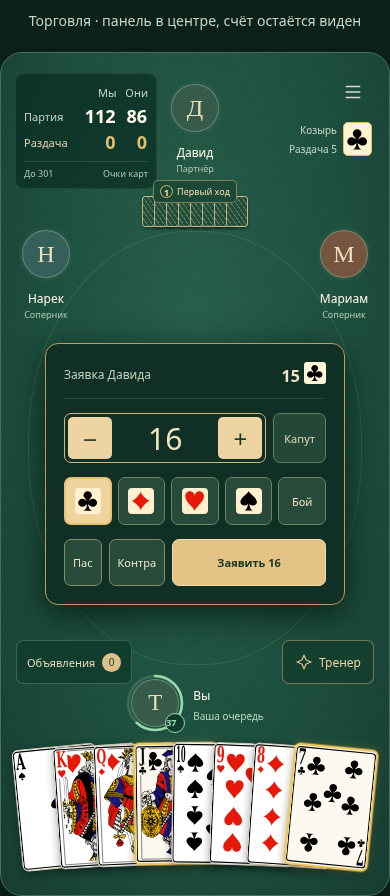
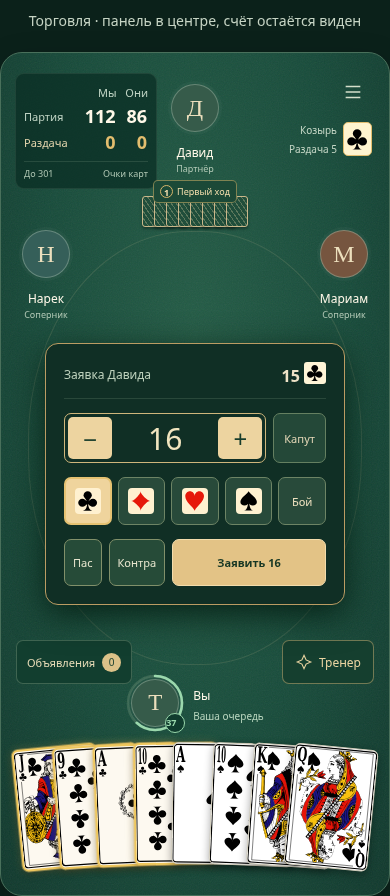
Publish isolated table and centered bidding design preview

Changed region(s): [[0.0308, 0.8125, 0.9846, 1.0]]

diff --git a/design-v3/app.js b/design-v3/app.js
@@ -1,11 +1,21 @@
 // Isolated visual prototype: no game rules, sockets, guest storage or production changes.
 const CARD_BASE = "../cards/";
 const glyphs = { CLUBS: "♣", DIAMONDS: "♦", HEARTS: "♥", SPADES: "♠" };
-const rankOrder = ["ACE", "KING", "QUEEN", "JACK", "TEN", "NINE", "EIGHT", "SEVEN"];
+const suitOrder = ["CLUBS", "DIAMONDS", "HEARTS", "SPADES"];
+const trumpRanks = ["JACK", "NINE", "ACE", "TEN", "KING", "QUEEN", "EIGHT", "SEVEN"];
+const plainRanks = ["ACE", "TEN", "KING", "QUEEN", "JACK", "NINE", "EIGHT", "SEVEN"];
 const hand = [
-  ["SPADES", "ACE"], ["HEARTS", "KING"], ["DIAMONDS", "QUEEN"], ["CLUBS", "JACK"],
-  ["SPADES", "TEN"], ["HEARTS", "NINE"], ["DIAMONDS", "EIGHT"], ["CLUBS", "SEVEN"],
-].sort((a, b) => rankOrder.indexOf(a[1]) - rankOrder.indexOf(b[1]));
+  ["SPADES", "QUEEN"], ["CLUBS", "ACE"], ["SPADES", "KING"], ["CLUBS", "JACK"],
+  ["SPADES", "TEN"], ["CLUBS", "NINE"], ["SPADES", "ACE"], ["CLUBS", "TEN"],
+];
+function sortHand(source, trump) {
+  return [...source].sort(([suitA, rankA], [suitB, rankB]) => {
+    const suits = suitOrder.indexOf(suitA) - suitOrder.indexOf(suitB);
+    if (suits) return suits;
+    const ranks = suitA === trump ? trumpRanks : plainRanks;
+    return ranks.indexOf(rankA) - ranks.indexOf(rankB);
+  });
+}
 const cardImage = (suit, rank) => `<img src="${CARD_BASE}${suit}-${rank}.svg" alt="${rank} ${suit}" draggable="false">`;
 const suitImage = suit => `<img class="suit" src="${CARD_BASE}${suit}.svg" alt="${glyphs[suit]}" draggable="false">`;
 const menuIcon = `<svg viewBox="0 0 24 24" fill="none" stroke="currentColor" stroke-width="1.6"><path d="M4 6h16M4 12h16M4 18h16"/></svg>`;
@@ -17,12 +27,12 @@ const players = `<div class="player player-north">${avatar("Д", "NORTH")}<div c
 function scoreboard(bidding) {
   return `<div class="score" aria-label="Счёт команд"><table><thead><tr><th></th><th>Мы</th><th>Они</th></tr></thead><tbody><tr><th>Партия</th><td>112</td><td>86</td></tr><tr class="live"><th>Раздача</th><td>${bidding ? 0 : 43}</td><td>${bidding ? 0 : 28}</td></tr></tbody></table><div class="score-meta"><span>До 301</span><span>Очки карт</span></div></div>`;
 }
-function cards(bidding, proof) {
-  const cards = proof ? hand.filter(c => c[1] !== "TEN") : hand;
-  return `<div class="hand" aria-label="Карты по рангу от туза до семёрки" style="--count:${cards.length}">${cards.map(([suit, rank], index) => {
+function cards(bidding, proof, trump = "CLUBS") {
+  const cards = sortHand(proof ? hand.filter(([suit, rank]) => !(suit === "SPADES" && rank === "TEN")) : hand, trump);
+  return `<div class="hand" aria-label="Карты по мастям, внутри масти — по силе в блоте" style="--count:${cards.length}">${cards.map(([suit, rank], index) => {
     const available = bidding || (proof ? suit === "CLUBS" && rank === "JACK" : suit === "SPADES");
     const middle = (cards.length - 1) / 2;
-    return `<button class="hand-card ${available ? "" : "unavailable"} ${suit === "CLUBS" ? "trump" : ""}" style="--index:${index};--angle:${(index - middle) * 1.6};--curve:${Math.abs(index - middle) * 1.2}" ${!available || bidding ? "disabled" : ""} aria-label="${rank} ${glyphs[suit]}${suit === "CLUBS" ? ", козырь" : ""}">${cardImage(suit, rank)}</button>`;
+    return `<button class="hand-card ${available ? "" : "unavailable"} ${suit === trump ? "trump" : ""}" style="--index:${index};--angle:${(index - middle) * 1.6};--curve:${Math.abs(index - middle) * 1.2}" ${!available || bidding ? "disabled" : ""} aria-label="${rank} ${glyphs[suit]}${suit === trump ? ", козырь" : ""}">${cardImage(suit, rank)}</button>`;
   }).join("")}</div>`;
 }
 function bidPanel() {
@@ -103,11 +113,27 @@ document.querySelectorAll(".preview-nav button").forEach(button => button.addEve
 }));
 document.querySelectorAll(".bid-panel").forEach(panel => {
   let amount = 16;
+  let minimum = 16;
   function update() { panel.querySelector("output").textContent = amount; panel.querySelector(".submit-bid").textContent = `Заявить ${amount}`; }
   panel.querySelector(".increase").addEventListener("click", () => { amount++; update(); });
-  panel.querySelector(".decrease").addEventListener("click", () => { amount = Math.max(16, amount - 1); update(); });
+  panel.querySelector(".decrease").addEventListener("click", () => { amount = Math.max(minimum, amount - 1); update(); });
   panel.querySelectorAll("[data-suit]").forEach(button => button.addEventListener("click", () => panel.querySelectorAll("[data-suit]").forEach(b => b.classList.toggle("selected", b === button))));
   panel.querySelector(".caput").addEventListener("click", event => { const button = event.currentTarget; const pressed = button.getAttribute("aria-pressed") !== "true"; button.setAttribute("aria-pressed", pressed); if (pressed) amount = Math.max(26, amount); update(); });
+  // A draft suit does not change the current contract or reorder the hand.
+  // Submit only applies a visual example; it does not run the game's auction.
+  panel.querySelector(".submit-bid").addEventListener("click", () => {
+    const suit = panel.querySelector("[data-suit].selected").dataset.suit;
+    const trump = suit === "BOI" ? null : suit;
+    const symbol = trump ? suitImage(trump) : "Бой";
+    panel.querySelector(".current-offer").innerHTML = `<span>Ваша заявка</span><b>${amount} <span class="suit-chip">${symbol}</span></b>`;
+    const board = panel.closest(".board");
+    board.querySelector(".contract > span").textContent = trump ? "Козырь" : "Контракт";
+    board.querySelector(".contract > strong").innerHTML = symbol;
+    board.querySelector(".hand").outerHTML = cards(true, false, trump);
+    minimum = amount + 1;
+    amount = minimum;
+    update();
+  });
 });
 function fitLandscape() { document.documentElement.style.setProperty("--landscape-scale", Math.min(390, innerWidth) / 844); document.documentElement.style.setProperty("--focus-landscape-scale", Math.min(844, innerWidth - (innerWidth > 600 ? 32 : 0)) / 844); }
 addEventListener("resize", fitLandscape); fitLandscape(); renderArchive();

diff --git a/design-v3/README.md b/design-v3/README.md
@@ -10,9 +10,11 @@
   прозрачности. Красные масти остаются красными; карта полностью закрывает соседей.
 - Козыри: тёплая золотая обводка и слабая золотая подсветка, в том числе у
   затемнённого козыря. Признаки козыря и допустимости хода независимы.
-- Одна рука без скролла; номинальный порядок **Т, К, Д, В, 10, 9, 8, 7**.
-  Козыри остаются в общем порядке, а не переносятся вперёд. Это сортировка
-  по номиналу для чтения руки, не изменение силы карт в движке.
+- Одна рука без скролла: сначала группы мастей **♣, ♦, ♥, ♠**, затем сила
+  карты внутри каждой группы. Козырная масть: **В, 9, Т, 10, К, Д, 8, 7**;
+  остальные масти: **Т, 10, К, Д, В, 9, 8, 7**. Во время торговли используется
+  козырь текущей заявки; неподтверждённый выбор масти порядок не меняет.
+  В примере видны В♣, 9♣, Т♣, 10♣, затем Т♠, 10♠, К♠, Д♠.
 - У игрока, первым открывающего раздачу, постоянная метка **«① Первый ход»**.
   Она отличается от индикатора текущей очереди. В этих примерах первым
   выходит Давид; во второй взятке он сохраняет метку первого выхода раздачи.
@@ -63,7 +65,9 @@ python3 -m http.server 4190
 раньше второй взятки. Карты новых примеров не являются записью одной партии.
 
 Кнопки самой торговли показывают выбор масти, числовой заявки и капута.
-Команды партии, меню и настоящий тренер в этом прототипе не выполняются.
+«Заявить» меняет демонстрационный контракт, подсветку козырей и сортировку
+руки; выбор «Бой» применяет некозырный порядок ко всем мастям. Это визуальный
+пример, не исполнение правил торговли. Меню и настоящий тренер не выполняются.
 Будущая реализация должна связывать всплывающие окна с публичными событиями
 и не повторять старые сообщения после восстановления/переподключения.
 
@@ -73,8 +77,16 @@ Chromium: панели торговли имеют отклонение цент
 ориентациях; в горизонтальном кадре между панелью и рукой **5 px**.
 На 320/390 px нет горизонтального переполнения, центрирование сохранено.
 Проверены сводка → четыре показанные карты → счётчик архива, отсутствие
-преждевременного архивирования и ошибок JavaScript. Рука отсортирована в
-порядке номиналов; недоступные карты не используют grayscale/opacity.
+преждевременного архивирования и ошибок JavaScript. Проверены группы всех четырёх мастей и оба порядка
+всех восьми рангов, сохранение руки при выборе черновой масти и пересортировка
+после демонстрационной заявки; недоступные карты не используют grayscale/opacity.
 
 PNG: `previews/design-v3/play.png`, `proof.png`, `bid.png`, `landscape.png`,
 `all-screens.png`, `announcements-stored.png`.
+
+Опубликованный макет проверен в мобильном Chromium по HTTPS: карты загружаются,
+торговля отклоняется от центра на 0 px, SVG-кольцо убывает с течением времени,
+комбинация показывается до сохранения. Локальная проверка часов подтвердила
+переход в предупреждение/последние три секунды и полное истечение до нуля.
+Публикация `813ad6c` добавила только каталог макета: все 51 прежний файл
+опубликованной игры (включая `.nojekyll`) сохранили свои Git blob-хеши.
